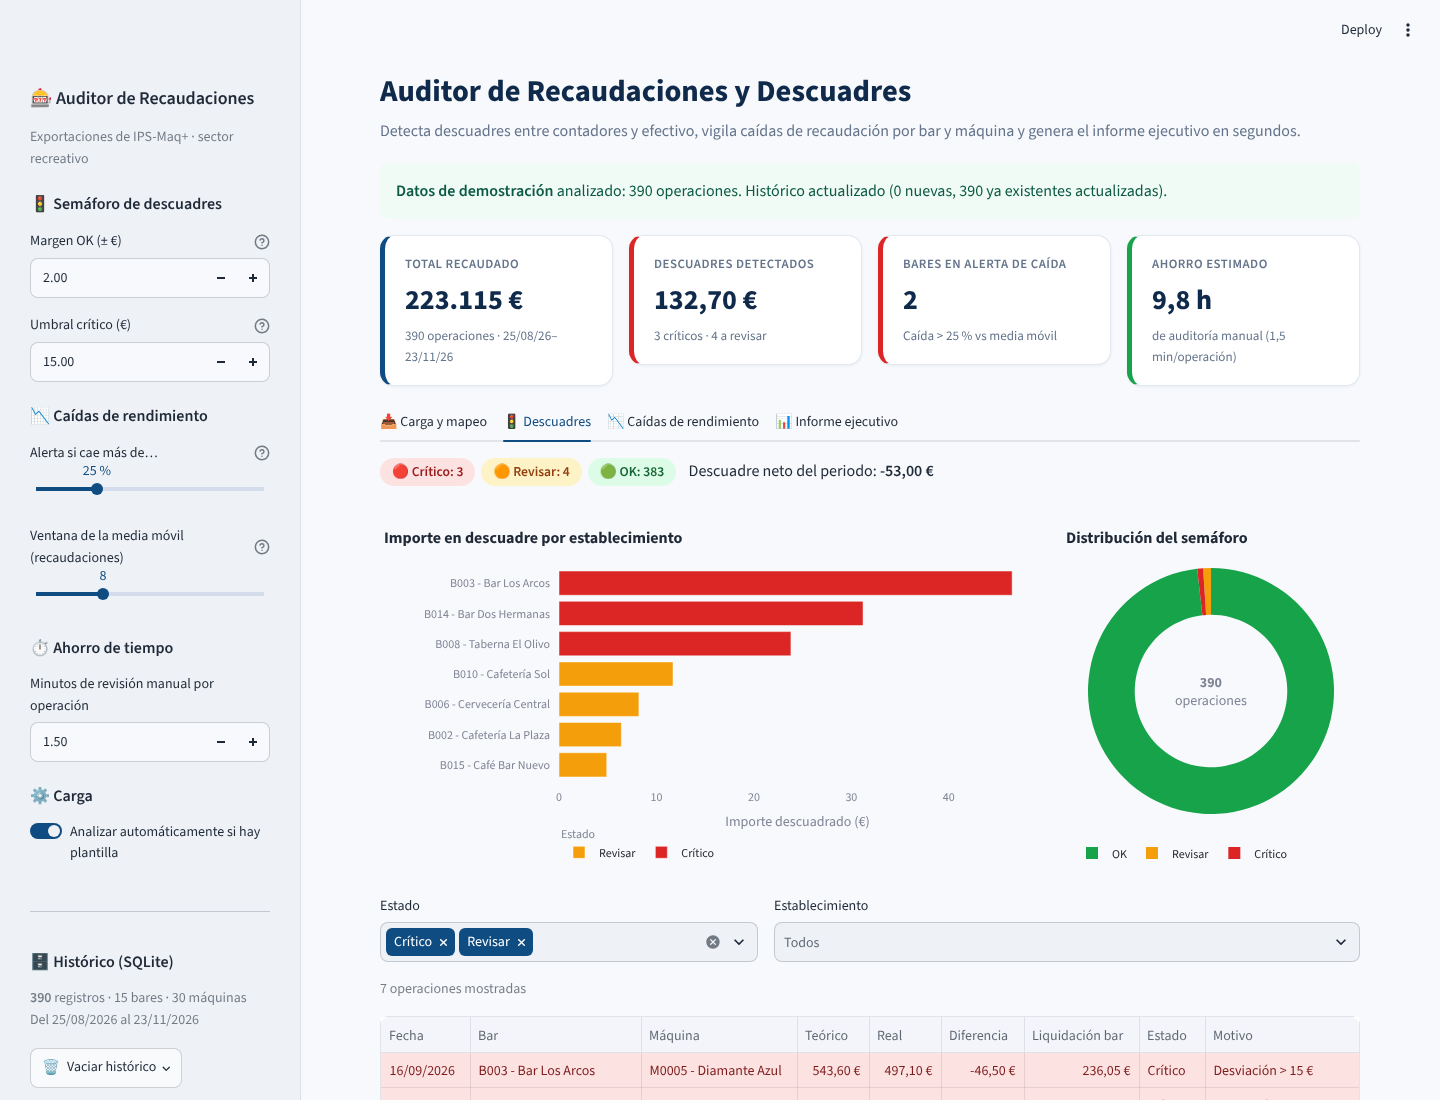
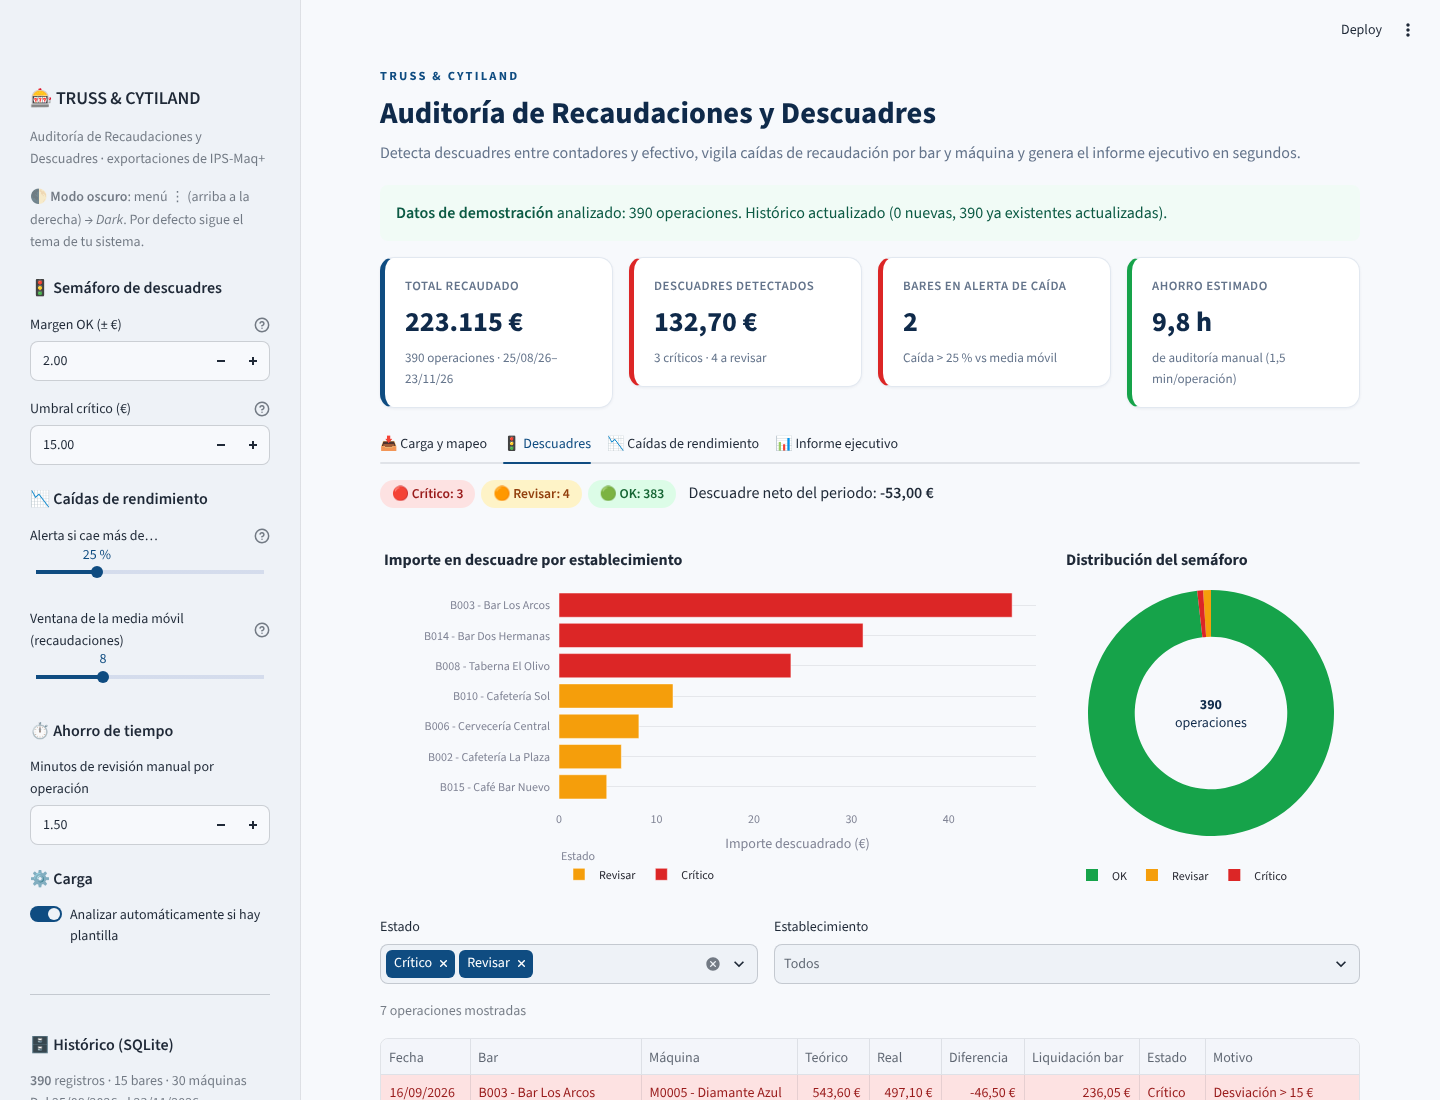
Auditor: marca TRUSS & CYTILAND y modo oscuro (#2)
- Nuevo nombre: TRUSS & CYTILAND · Auditoría de Recaudaciones y Descuadres
  (cabecera, barra lateral, pestaña del navegador, informe Excel, .bat y README).
- Modo claro y oscuro con tema corporativo ([theme.light] / [theme.dark]);
  tarjetas, chips, tablas y gráficos Plotly se adaptan al tema activo.
- Capturas del README actualizadas, con una del modo oscuro.

Claude-Session: https://claude.ai/code/session_018XHumRsg4fRSUYcyW3BLg2

diff --git a/01-auditor-recaudaciones/app.py b/01-auditor-recaudaciones/app.py
@@ -1,5 +1,5 @@
 """
-app.py — Auditor de Recaudaciones y Descuadres (IPS-Maq+)
+app.py — TRUSS & CYTILAND · Auditoría de Recaudaciones y Descuadres (IPS-Maq+)
 ==========================================================
 Interfaz Streamlit. Ejecuta:  streamlit run app.py
 """
@@ -17,45 +17,91 @@ import analyzer as az
 import database as db
 import sample_data
 
+EMPRESA = "TRUSS & CYTILAND"
+NOMBRE_APP = "Auditoría de Recaudaciones y Descuadres"
+
 st.set_page_config(
-    page_title="Auditor de Recaudaciones",
+    page_title=f"{NOMBRE_APP} · {EMPRESA}",
     page_icon="🎰",
     layout="wide",
     initial_sidebar_state="expanded",
 )
 
 SIN_ASIGNAR = "— Sin asignar —"
-AZUL = "#0F4C81"
+
+# --------------------------------------------------------------------------- #
+# Tema claro / oscuro
+# --------------------------------------------------------------------------- #
+# Streamlit aplica el tema nativo (config.toml define [theme.light] y [theme.dark])
+# según el sistema o lo elegido en el menú ⋮ (System / Light / Dark). Aquí detectamos cuál está activo
+# para adaptar las tarjetas HTML, las tablas y los gráficos Plotly.
+PALETAS = {
+    "light": {
+        "texto": "#0F2A4A", "texto_sec": "#64748B", "tarjeta": "#FFFFFF", "borde": "#E2E8F0",
+        "sombra": "rgba(15, 42, 74, .06)", "acento": "#0F4C81",
+        "hero": "linear-gradient(135deg, #0F4C81 0%, #1E6FB8 100%)", "hero_txt": "#E0ECF8",
+        "ok_bg": "#DCFCE7", "ok_tx": "#166534", "rev_bg": "#FEF3C7", "rev_tx": "#92400E",
+        "crit_bg": "#FDE2E2", "crit_tx": "#991B1B", "plotly": "plotly_white", "rejilla": "#E5E7EB",
+        "neutro": "#94A3B8",
+    },
+    "dark": {
+        "texto": "#E6EDF5", "texto_sec": "#94A3B8", "tarjeta": "#16202E", "borde": "#26344A",
+        "sombra": "rgba(0, 0, 0, .35)", "acento": "#4C9BE8",
+        "hero": "linear-gradient(135deg, #12355C 0%, #1B5288 100%)", "hero_txt": "#C9DDF2",
+        "ok_bg": "rgba(34,197,94,.16)", "ok_tx": "#86EFAC", "rev_bg": "rgba(245,158,11,.18)",
+        "rev_tx": "#FCD34D", "crit_bg": "rgba(239,68,68,.18)", "crit_tx": "#FCA5A5",
+        "plotly": "plotly_dark", "rejilla": "#26344A", "neutro": "#64748B",
+    },
+}
+try:
+    _tipo_tema = st.context.theme.type or "light"
+except AttributeError:  # versiones antiguas de Streamlit
+    _tipo_tema = "light"
+OSCURO = _tipo_tema == "dark"
+P = PALETAS["dark" if OSCURO else "light"]
+AZUL = P["acento"]
+
+
+def estilo_fig(fig, **kw):
+    """Aplica el tema (claro/oscuro) a una figura Plotly con fondo transparente."""
+    fig.update_layout(template=P["plotly"], paper_bgcolor="rgba(0,0,0,0)",
+                      plot_bgcolor="rgba(0,0,0,0)", font_color=P["texto"], **kw)
+    fig.update_xaxes(gridcolor=P["rejilla"], zerolinecolor=P["rejilla"])
+    fig.update_yaxes(gridcolor=P["rejilla"], zerolinecolor=P["rejilla"])
+    return fig
+
 
 # --------------------------------------------------------------------------- #
 # Estilos
 # --------------------------------------------------------------------------- #
 st.markdown(
-    """
+    f"""
     <style>
-      .block-container {padding-top: 3.2rem; padding-bottom: 3rem; max-width: 1400px;}
-      .titulo {font-size: 1.9rem; font-weight: 750; color: #0F2A4A; margin-bottom: 0;}
-      .subtitulo {color: #64748B; margin-top: .15rem; margin-bottom: 1.2rem;}
-      .kpi {background: #FFFFFF; border: 1px solid #E2E8F0; border-radius: 14px;
-            padding: 18px 20px; box-shadow: 0 1px 3px rgba(15, 42, 74, .06); height: 100%;}
-      .kpi .lbl {font-size: .80rem; color: #64748B; text-transform: uppercase;
-                 letter-spacing: .04em; font-weight: 600;}
-      .kpi .val {font-size: 1.75rem; font-weight: 750; color: #0F2A4A; margin-top: 4px;
-                 white-space: nowrap;}
-      .kpi .det {font-size: .82rem; color: #64748B; margin-top: 2px;}
-      .kpi.azul  {border-left: 5px solid #0F4C81;}
-      .kpi.rojo  {border-left: 5px solid #DC2626;}
-      .kpi.ambar {border-left: 5px solid #F59E0B;}
-      .kpi.verde {border-left: 5px solid #16A34A;}
-      .chip {display:inline-block; padding: 3px 12px; border-radius: 999px; font-weight: 600;
-             font-size: .85rem; margin-right: 6px;}
-      .chip.ok {background:#DCFCE7; color:#166534;}
-      .chip.rev {background:#FEF3C7; color:#92400E;}
-      .chip.crit {background:#FDE2E2; color:#991B1B;}
-      .hero {background: linear-gradient(135deg, #0F4C81 0%, #1E6FB8 100%); color: #fff;
-             border-radius: 16px; padding: 28px 32px; margin-bottom: 1rem;}
-      .hero h3 {color: #fff; margin: 0 0 .4rem 0;}
-      .hero p {color: #E0ECF8; margin: 0;}
+      .block-container {{padding-top: 3.2rem; padding-bottom: 3rem; max-width: 1400px;}}
+      .marca {{font-size: .78rem; font-weight: 700; letter-spacing: .18em; color: {P["acento"]};
+               text-transform: uppercase; margin-bottom: .1rem;}}
+      .titulo {{font-size: 1.9rem; font-weight: 750; color: {P["texto"]}; margin-bottom: 0;}}
+      .subtitulo {{color: {P["texto_sec"]}; margin-top: .15rem; margin-bottom: 1.2rem;}}
+      .kpi {{background: {P["tarjeta"]}; border: 1px solid {P["borde"]}; border-radius: 14px;
+            padding: 18px 20px; box-shadow: 0 1px 3px {P["sombra"]}; height: 100%;}}
+      .kpi .lbl {{font-size: .80rem; color: {P["texto_sec"]}; text-transform: uppercase;
+                 letter-spacing: .04em; font-weight: 600;}}
+      .kpi .val {{font-size: 1.75rem; font-weight: 750; color: {P["texto"]}; margin-top: 4px;
+                 white-space: nowrap;}}
+      .kpi .det {{font-size: .82rem; color: {P["texto_sec"]}; margin-top: 2px;}}
+      .kpi.azul  {{border-left: 5px solid {P["acento"]};}}
+      .kpi.rojo  {{border-left: 5px solid #DC2626;}}
+      .kpi.ambar {{border-left: 5px solid #F59E0B;}}
+      .kpi.verde {{border-left: 5px solid #16A34A;}}
+      .chip {{display:inline-block; padding: 3px 12px; border-radius: 999px; font-weight: 600;
+             font-size: .85rem; margin-right: 6px;}}
+      .chip.ok {{background:{P["ok_bg"]}; color:{P["ok_tx"]};}}
+      .chip.rev {{background:{P["rev_bg"]}; color:{P["rev_tx"]};}}
+      .chip.crit {{background:{P["crit_bg"]}; color:{P["crit_tx"]};}}
+      .hero {{background: {P["hero"]}; color: #fff;
+             border-radius: 16px; padding: 28px 32px; margin-bottom: 1rem;}}
+      .hero h3 {{color: #fff; margin: 0 0 .4rem 0;}}
+      .hero p {{color: {P["hero_txt"]}; margin: 0;}}
     </style>
     """,
     unsafe_allow_html=True,
@@ -192,8 +238,9 @@ def cb_vaciar() -> None:
 # Barra lateral: parámetros
 # --------------------------------------------------------------------------- #
 with st.sidebar:
-    st.markdown("### 🎰 Auditor de Recaudaciones")
-    st.caption("Exportaciones de IPS-Maq+ · sector recreativo")
+    st.markdown(f"### 🎰 {EMPRESA}")
+    st.caption(f"{NOMBRE_APP} · exportaciones de IPS-Maq+")
+    st.caption("🌓 **Modo oscuro**: menú ⋮ (arriba a la derecha) → *Dark*. Por defecto sigue el tema de tu sistema.")
 
     st.markdown("#### 🚦 Semáforo de descuadres")
     margen_ok = st.number_input("Margen OK (± €)", 0.0, 50.0, 2.0, 0.5, key="margen_ok",
@@ -232,7 +279,8 @@ with st.sidebar:
 # --------------------------------------------------------------------------- #
 # Cabecera
 # --------------------------------------------------------------------------- #
-st.markdown('<div class="titulo">Auditor de Recaudaciones y Descuadres</div>', unsafe_allow_html=True)
+st.markdown(f'<div class="marca">{EMPRESA}</div><div class="titulo">{NOMBRE_APP}</div>',
+            unsafe_allow_html=True)
 st.markdown(
     '<div class="subtitulo">Detecta descuadres entre contadores y efectivo, vigila caídas de recaudación '
     'por bar y máquina y genera el informe ejecutivo en segundos.</div>',
@@ -345,8 +393,8 @@ with tab_carga:
 # TAB 2 · Descuadres
 # --------------------------------------------------------------------------- #
 ESTILO_FILA = {
-    az.ESTADO_CRITICO: "background-color: #FDE2E2; color: #7F1D1D;",
-    az.ESTADO_REVISAR: "background-color: #FEF3C7; color: #78350F;",
+    az.ESTADO_CRITICO: f"background-color: {P['crit_bg']}; color: {P['crit_tx']};",
+    az.ESTADO_REVISAR: f"background-color: {P['rev_bg']}; color: {P['rev_tx']};",
     az.ESTADO_OK: "",
 }
 
@@ -376,7 +424,7 @@ with tab_desc:
                              color_discrete_map=az.COLOR_ESTADO, category_orders={"bar": orden},
                              labels={"importe": "Importe descuadrado (€)", "bar": "", "estado": "Estado"},
                              title="Importe en descuadre por establecimiento")
-                fig.update_layout(template="plotly_white", height=360, margin=dict(l=10, r=10, t=50, b=10),
+                estilo_fig(fig, height=360, margin=dict(l=10, r=10, t=50, b=10),
                                   legend=dict(orientation="h", y=-0.2), yaxis=dict(categoryorder="array",
                                                                                      categoryarray=orden))
                 st.plotly_chart(fig, width="stretch")
@@ -387,7 +435,7 @@ with tab_desc:
                                    marker=dict(colors=[az.COLOR_ESTADO[e] for e in dist.index]),
                                    textinfo="none",
                                    hovertemplate="%{label}: %{value} (%{percent})<extra></extra>"))
-            fig.update_layout(template="plotly_white", height=360, margin=dict(l=10, r=10, t=50, b=10),
+            estilo_fig(fig, height=360, margin=dict(l=10, r=10, t=50, b=10),
                               title="Distribución del semáforo", showlegend=True,
                               legend=dict(orientation="h", y=-0.1),
                               annotations=[dict(text=f"<b>{len(lote)}</b><br>operaciones",
@@ -446,12 +494,12 @@ with tab_caidas:
         with col_g:
             fig = go.Figure(go.Bar(
                 x=validos["variacion"] * 100, y=validos["entidad"], orientation="h",
-                marker_color=["#DC2626" if a else "#94A3B8" for a in validos["alerta"]],
+                marker_color=["#DC2626" if a else P["neutro"] for a in validos["alerta"]],
                 hovertemplate="%{y}<br>Variación: %{x:.1f} %<extra></extra>",
             ))
             fig.add_vline(x=-umbral_caida, line_dash="dash", line_color="#DC2626",
                           annotation_text=f"-{umbral_caida} %", annotation_position="top")
-            fig.update_layout(template="plotly_white", title="Última recaudación vs media móvil (%)",
+            estilo_fig(fig, title="Última recaudación vs media móvil (%)",
                               height=max(360, 22 * len(validos) + 80), margin=dict(l=10, r=10, t=50, b=10),
                               xaxis_title="Variación (%)", yaxis=dict(autorange="reversed"))
             st.plotly_chart(fig, width="stretch")
@@ -466,7 +514,7 @@ with tab_caidas:
             if nivel == "Por bar":
                 t = t.drop(columns="Máquina")
             estilo = (t.style
-                      .apply(lambda f: ["background-color: #FDE2E2; color: #7F1D1D;" if f["_alerta"] else ""]
+                      .apply(lambda f: [ESTILO_FILA[az.ESTADO_CRITICO] if f["_alerta"] else ""]
                              * len(f), axis=1)
                       .format({"Importe": eur, "Media": eur, "Variación": pct})
                       .hide(["_alerta"], axis="columns"))
@@ -490,7 +538,7 @@ with tab_caidas:
                                  line=dict(color="#F59E0B", width=2.5)))
         fig.add_trace(go.Scatter(x=s["fecha"], y=s["recaudacion"], name="Recaudación (contadores)",
                                  mode="lines+markers", line=dict(color=AZUL, width=2.5)))
-        fig.update_layout(template="plotly_white", height=380, margin=dict(l=10, r=10, t=30, b=10),
+        estilo_fig(fig, height=380, margin=dict(l=10, r=10, t=30, b=10),
                           yaxis_title="€", legend=dict(orientation="h", y=-0.2), hovermode="x unified")
         st.plotly_chart(fig, width="stretch")
 
@@ -537,5 +585,5 @@ with tab_inf:
             )
 
 st.divider()
-st.caption("Auditor de Recaudaciones · Python, Streamlit, Pandas, Plotly y SQLite · "
+st.caption(f"{EMPRESA} · {NOMBRE_APP} · Python, Streamlit, Pandas, Plotly y SQLite · "
            "Los datos se procesan localmente; los datos de demostración son ficticios.")

diff --git a/01-auditor-recaudaciones/analyzer.py b/01-auditor-recaudaciones/analyzer.py
@@ -375,7 +375,7 @@ def exportar_informe_excel(lote: pd.DataFrame, caidas: pd.DataFrame, kpis: dict,
         ws = wb.add_worksheet("Resumen_Ejecutivo")
         writer.sheets["Resumen_Ejecutivo"] = ws
         ws.hide_gridlines(2)
-        ws.write(0, 0, "Auditoría de Recaudaciones y Descuadres", f_titulo)
+        ws.write(0, 0, "TRUSS & CYTILAND · Auditoría de Recaudaciones y Descuadres", f_titulo)
         periodo = (f"Periodo analizado: {kpis['desde']:%d/%m/%Y} – {kpis['hasta']:%d/%m/%Y}"
                    if pd.notna(kpis["desde"]) else "")
         ws.write(1, 0, f"Generado el {datetime.now():%d/%m/%Y %H:%M}.  {periodo}", f_sub)

diff --git a/01-auditor-recaudaciones/README.md b/01-auditor-recaudaciones/README.md
@@ -1,4 +1,4 @@
-# 🎰 Auditor de Recaudaciones y Descuadres
+# 🎰 TRUSS & CYTILAND · Auditoría de Recaudaciones y Descuadres
 
 **Auditoría automática de recaudaciones de máquinas recreativas a partir de exportaciones del ERP IPS-Maq+.**
 Detecta descuadres entre contadores y efectivo, vigila caídas de recaudación por bar y por máquina y genera un informe ejecutivo en Excel en segundos.
@@ -34,12 +34,17 @@ Este cuadre se hace a mano en Excel, fila a fila. Es lento, propenso a errores y
 | **Carga inteligente** | Lee `.xlsx`, `.xls` y `.csv` (separador, codificación y formato `1.234,56 €` autodetectados). Asistente visual para mapear las columnas del informe de IPS-Maq+ con **sugerencia automática** y **plantillas reutilizables** (`config_columnas.json`). Botón de **datos de demostración**. |
 | **Motor de descuadres** | Calcula `Real − Teórico` por operación y aplica un semáforo configurable: 🟢 OK (±2 €), 🟠 Revisar (2,01–15 €), 🔴 Crítico (>15 € o recaudación 0 €). |
 | **Motor de caídas** | Guarda el histórico en SQLite sin duplicados (`Fecha + Bar + Máquina`) y compara la última recaudación de cada bar/máquina con su **media móvil** de recaudaciones previas. Alerta si cae más de un **25 %** (slider). Diagnóstico: posible avería oculta, máquina apagada o cambio de tendencia. |
+| **Modo claro y oscuro** | Tema corporativo en ambos modos (sigue al sistema o se elige en el menú ⋮). Tarjetas, tablas y gráficos se adaptan automáticamente. |
 | **Dashboard** | Tarjetas KPI (total recaudado, € en descuadres, bares en alerta, horas de auditoría ahorradas), gráficos Plotly interactivos y tablas con colores de alerta. |
 | **Informe ejecutivo** | Excel multi-pestaña (`Resumen_Ejecutivo`, `Descuadres_Criticos`, `Bares_En_Riesgo`) con cabeceras corporativas, autoajuste de columnas, formato moneda €, filtros y formato condicional. |
 
 | Carga y mapeo | Caídas de rendimiento |
 |---|---|
 | ![Carga](docs/carga_mapeo.png) | ![Caídas](docs/caidas.png) |
+
+**Modo oscuro**
+
+![Modo oscuro](docs/modo_oscuro.png)
 
 ## 🏗 Arquitectura técnica
 
@@ -52,7 +57,7 @@ Este cuadre se hace a mano en Excel, fila a fila. Es lento, propenso a errores y
 ├── lanzador.py            # Arranque local: puerto libre + apertura del navegador
 ├── iniciar_auditor.bat    # Doble clic en Windows: venv + dependencias + app
 ├── requirements.txt
-├── .streamlit/config.toml # Tema corporativo claro
+├── .streamlit/config.toml # Tema corporativo claro y oscuro
 └── docs/                  # Capturas para este README
 ```
 
